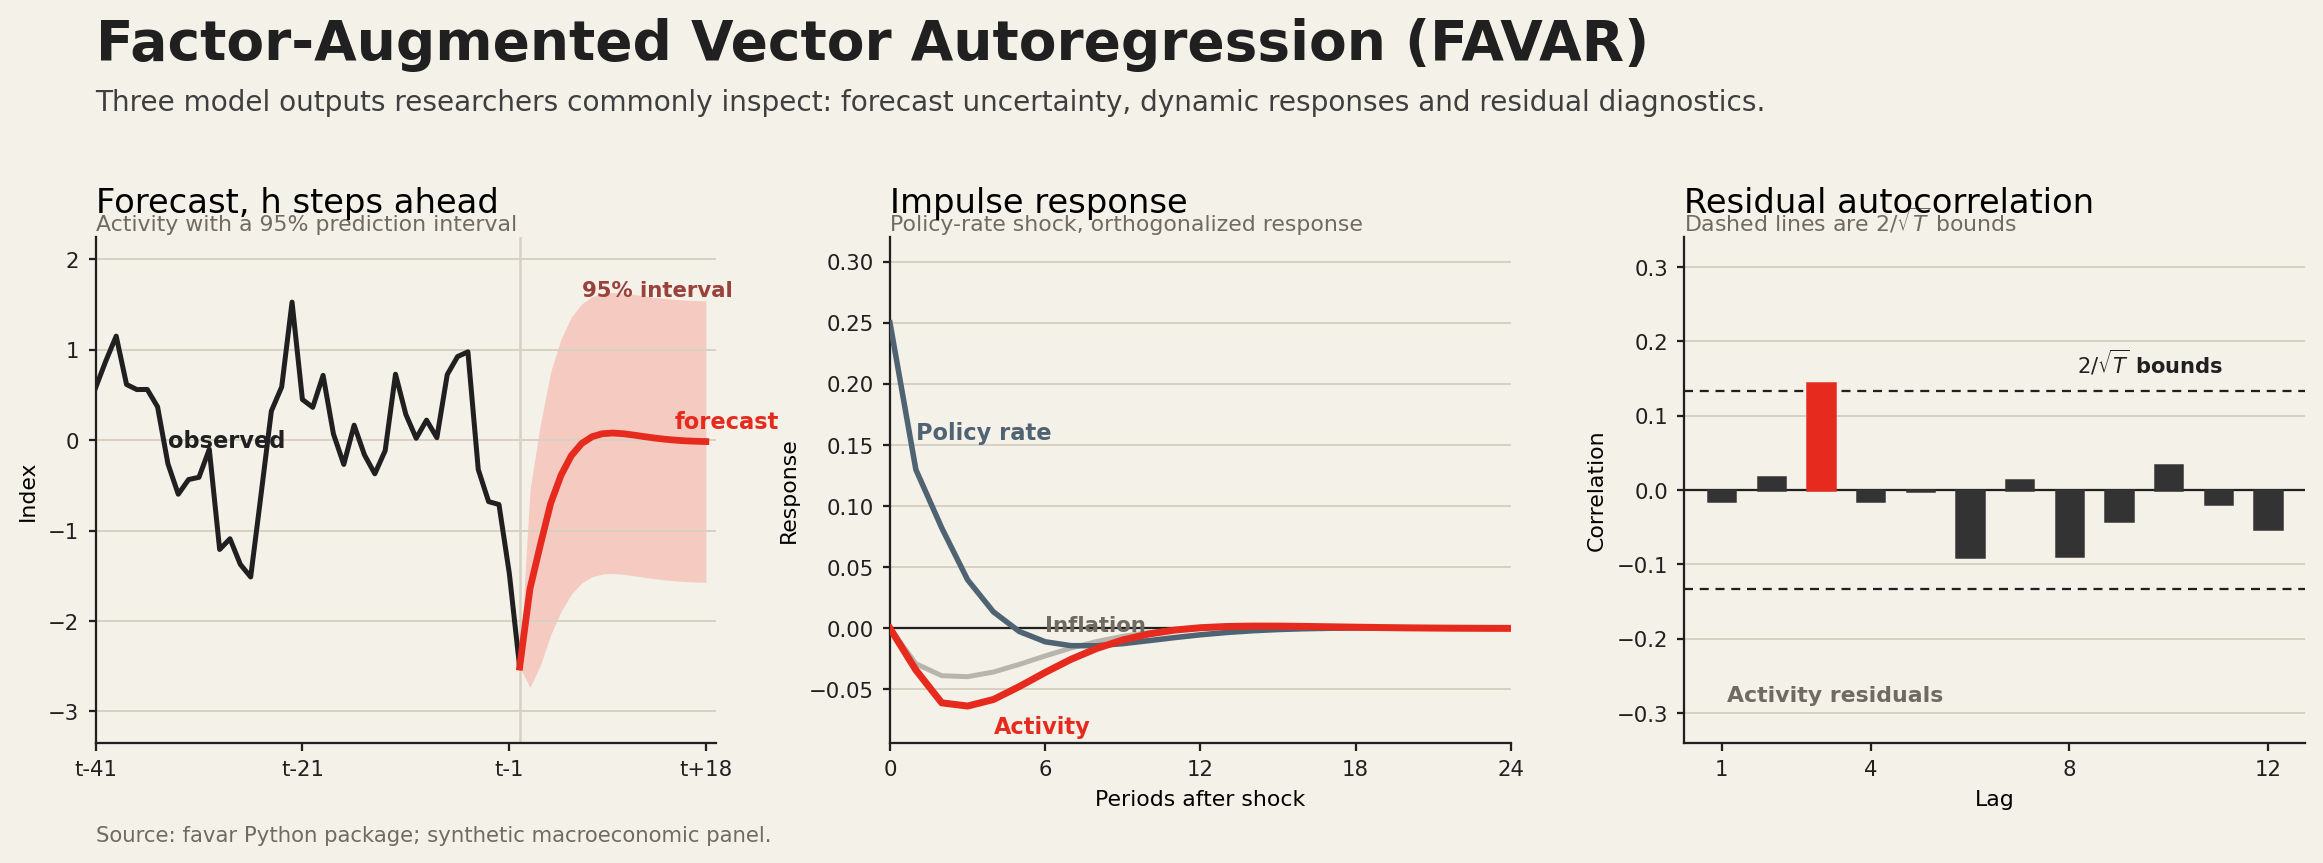
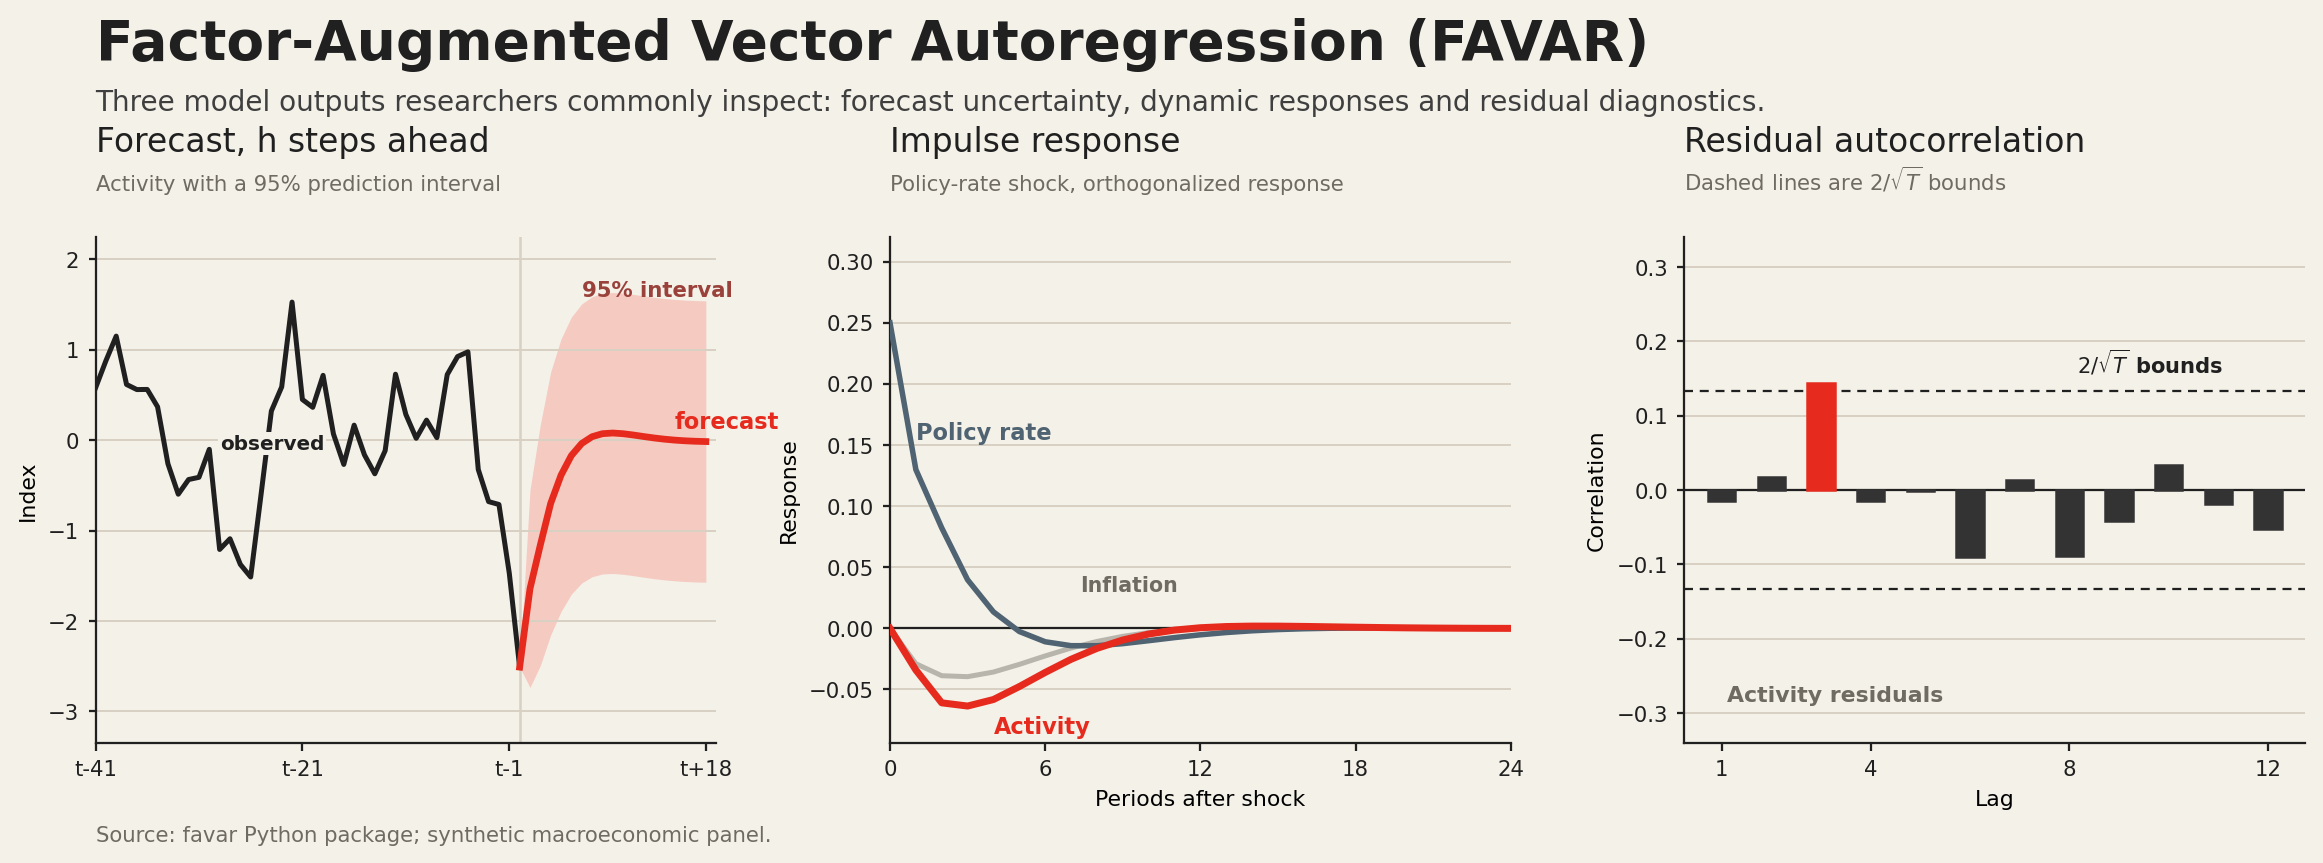
Polish preview chart labels

diff --git a/scripts/create_public_preview.py b/scripts/create_public_preview.py
@@ -116,17 +116,30 @@ def style_axes(ax):
 
 
 def add_panel_title(ax, title: str, subtitle: str | None = None):
-    ax.set_title(title, loc="left", fontsize=13.5, pad=10)
+    ax.set_title("")
+    ax.text(
+        0.0,
+        1.155,
+        title,
+        transform=ax.transAxes,
+        ha="left",
+        va="bottom",
+        color=INK,
+        fontsize=13.2,
+        fontweight="normal",
+        clip_on=False,
+    )
     if subtitle:
         ax.text(
             0.0,
-            1.005,
+            1.085,
             subtitle,
             transform=ax.transAxes,
             ha="left",
             va="bottom",
             color=MUTED,
-            fontsize=8.8,
+            fontsize=8.5,
+            clip_on=False,
         )
 
 
@@ -165,7 +178,17 @@ def plot_forecast(ax, y: pd.DataFrame, results, steps: int = 18):
     ax.set_xticklabels(["t-41", "t-21", "t-1", "t+18"])
     ax.set_ylabel("Index")
 
-    ax.text(hist_x[7], history[7] + 0.18, "observed", color=INK, fontsize=9, fontweight="bold")
+    label_box = {"facecolor": PAPER, "edgecolor": "none", "pad": 0.8}
+    ax.text(
+        hist_x[12],
+        -0.10,
+        "observed",
+        color=INK,
+        fontsize=8.0,
+        fontweight="bold",
+        bbox=label_box,
+        zorder=5,
+    )
     ax.text(future_x[-4], mean[-4] + 0.13, "forecast", color=RED, fontsize=9, fontweight="bold")
     ax.text(future_x[5], upper[5] + 0.08, "95% interval", color="#9a413b", fontsize=8.5, fontweight="bold")
 
@@ -193,7 +216,16 @@ def plot_irf(ax, results, periods: int = 24):
 
     ax.text(1.0, irf["Policy rate"].iloc[1] + 0.025, "Policy rate", color=BLUE_GREY, fontsize=9, fontweight="bold")
     ax.text(4.0, irf["Activity"].iloc[4] - 0.028, "Activity", color=RED, fontsize=9, fontweight="bold")
-    ax.text(6.0, irf["Inflation"].iloc[6] + 0.020, "Inflation", color=MUTED, fontsize=8.5, fontweight="bold")
+    ax.text(
+        7.35,
+        0.030,
+        "Inflation",
+        color=MUTED,
+        fontsize=8.2,
+        fontweight="bold",
+        bbox={"facecolor": PAPER, "edgecolor": "none", "pad": 0.5},
+        zorder=5,
+    )
 
 
 def plot_acorr(ax, results, nlags: int = 12):